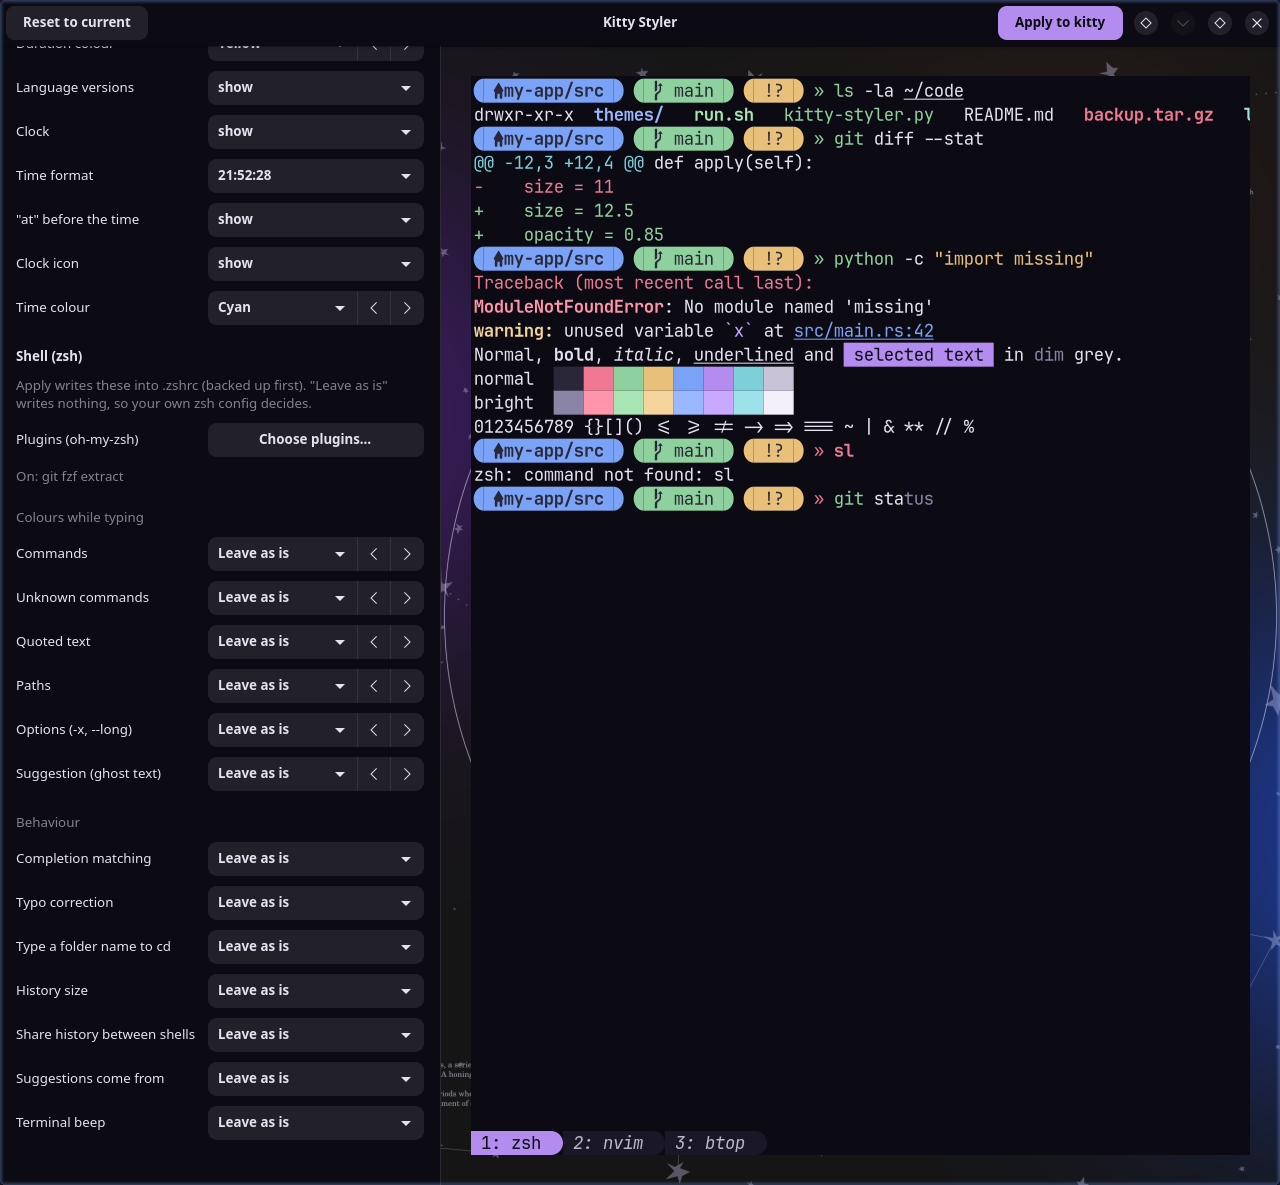
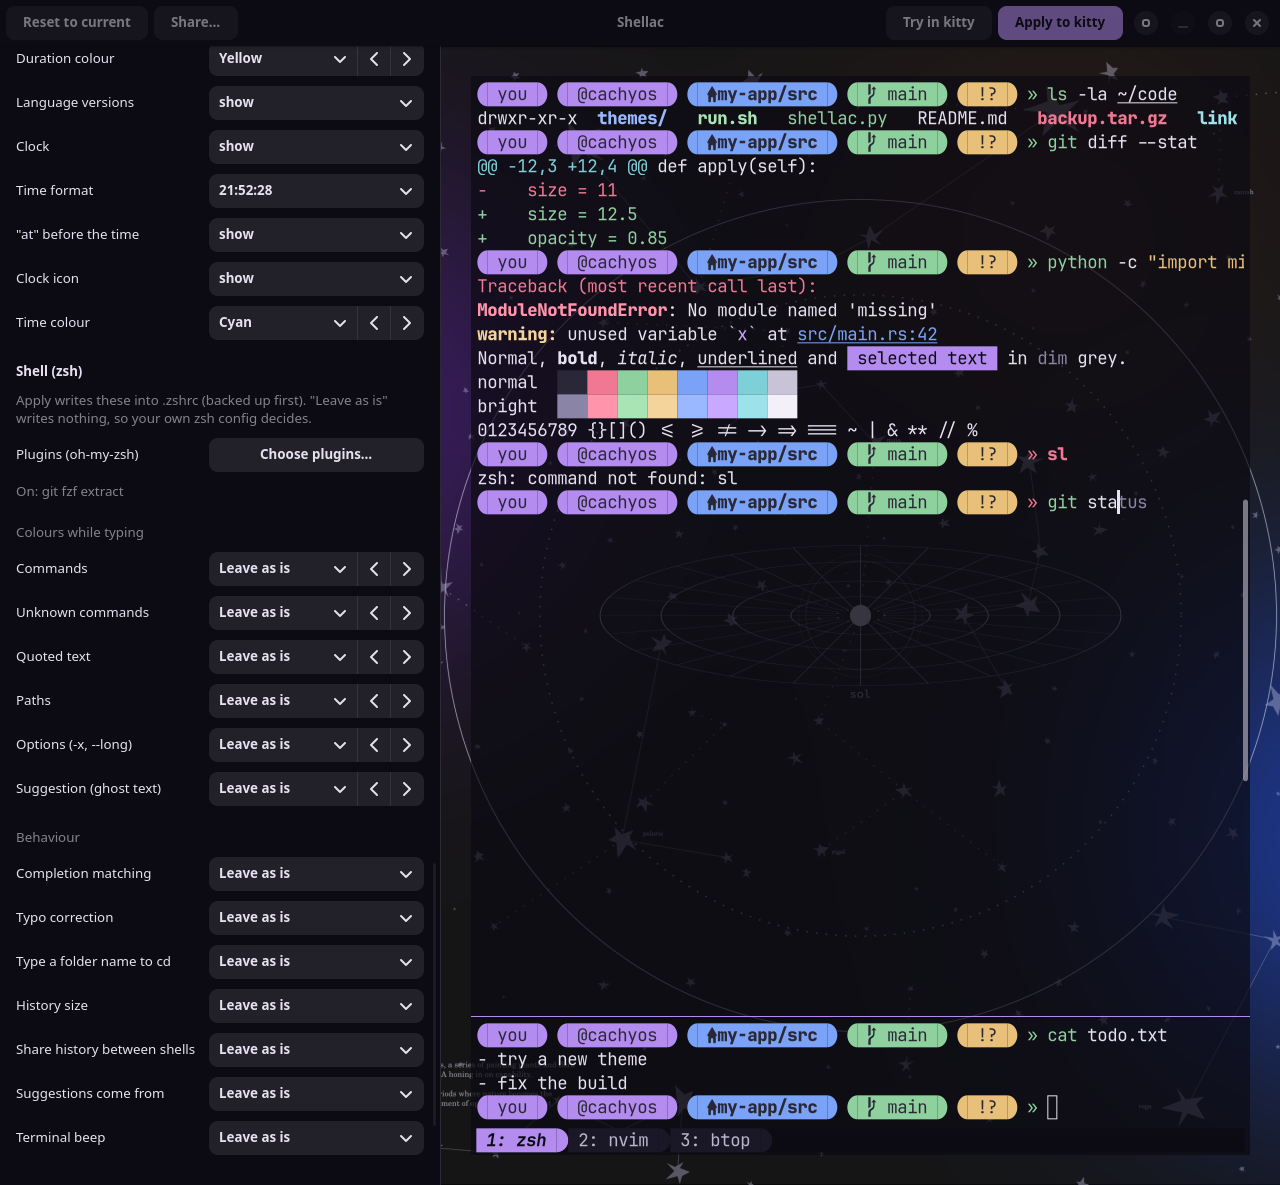
chore: release 1.4.0 as Shellac
Point the updater, install.sh and the README at the renamed repo
Soulmanyes/shellac (GitHub redirects the old name, so 1.3.x copies
still find this release) and retake the screenshots.

diff --git a/shellac.py b/shellac.py
@@ -72,8 +72,8 @@ BLOCK_END = "# END_KITTY_STYLER"
 NOCTALIA = os.path.exists(NOCTALIA_THEME)
 BASE_LABEL = "Noctalia (follows wallpaper)" if NOCTALIA else "Keep current theme"
 APP_ID = "io.github.soulmanyes.Shellac"
-VERSION = "1.3.1"
-REPO = "Soulmanyes/kitty-styler"
+VERSION = "1.4.0"
+REPO = "Soulmanyes/shellac"
 CONFIG_HOME = os.environ.get("XDG_CONFIG_HOME", os.path.expanduser("~/.config"))
 UPDATE_STATE = os.path.join(CONFIG_HOME, "shellac", "updates.json")
 
